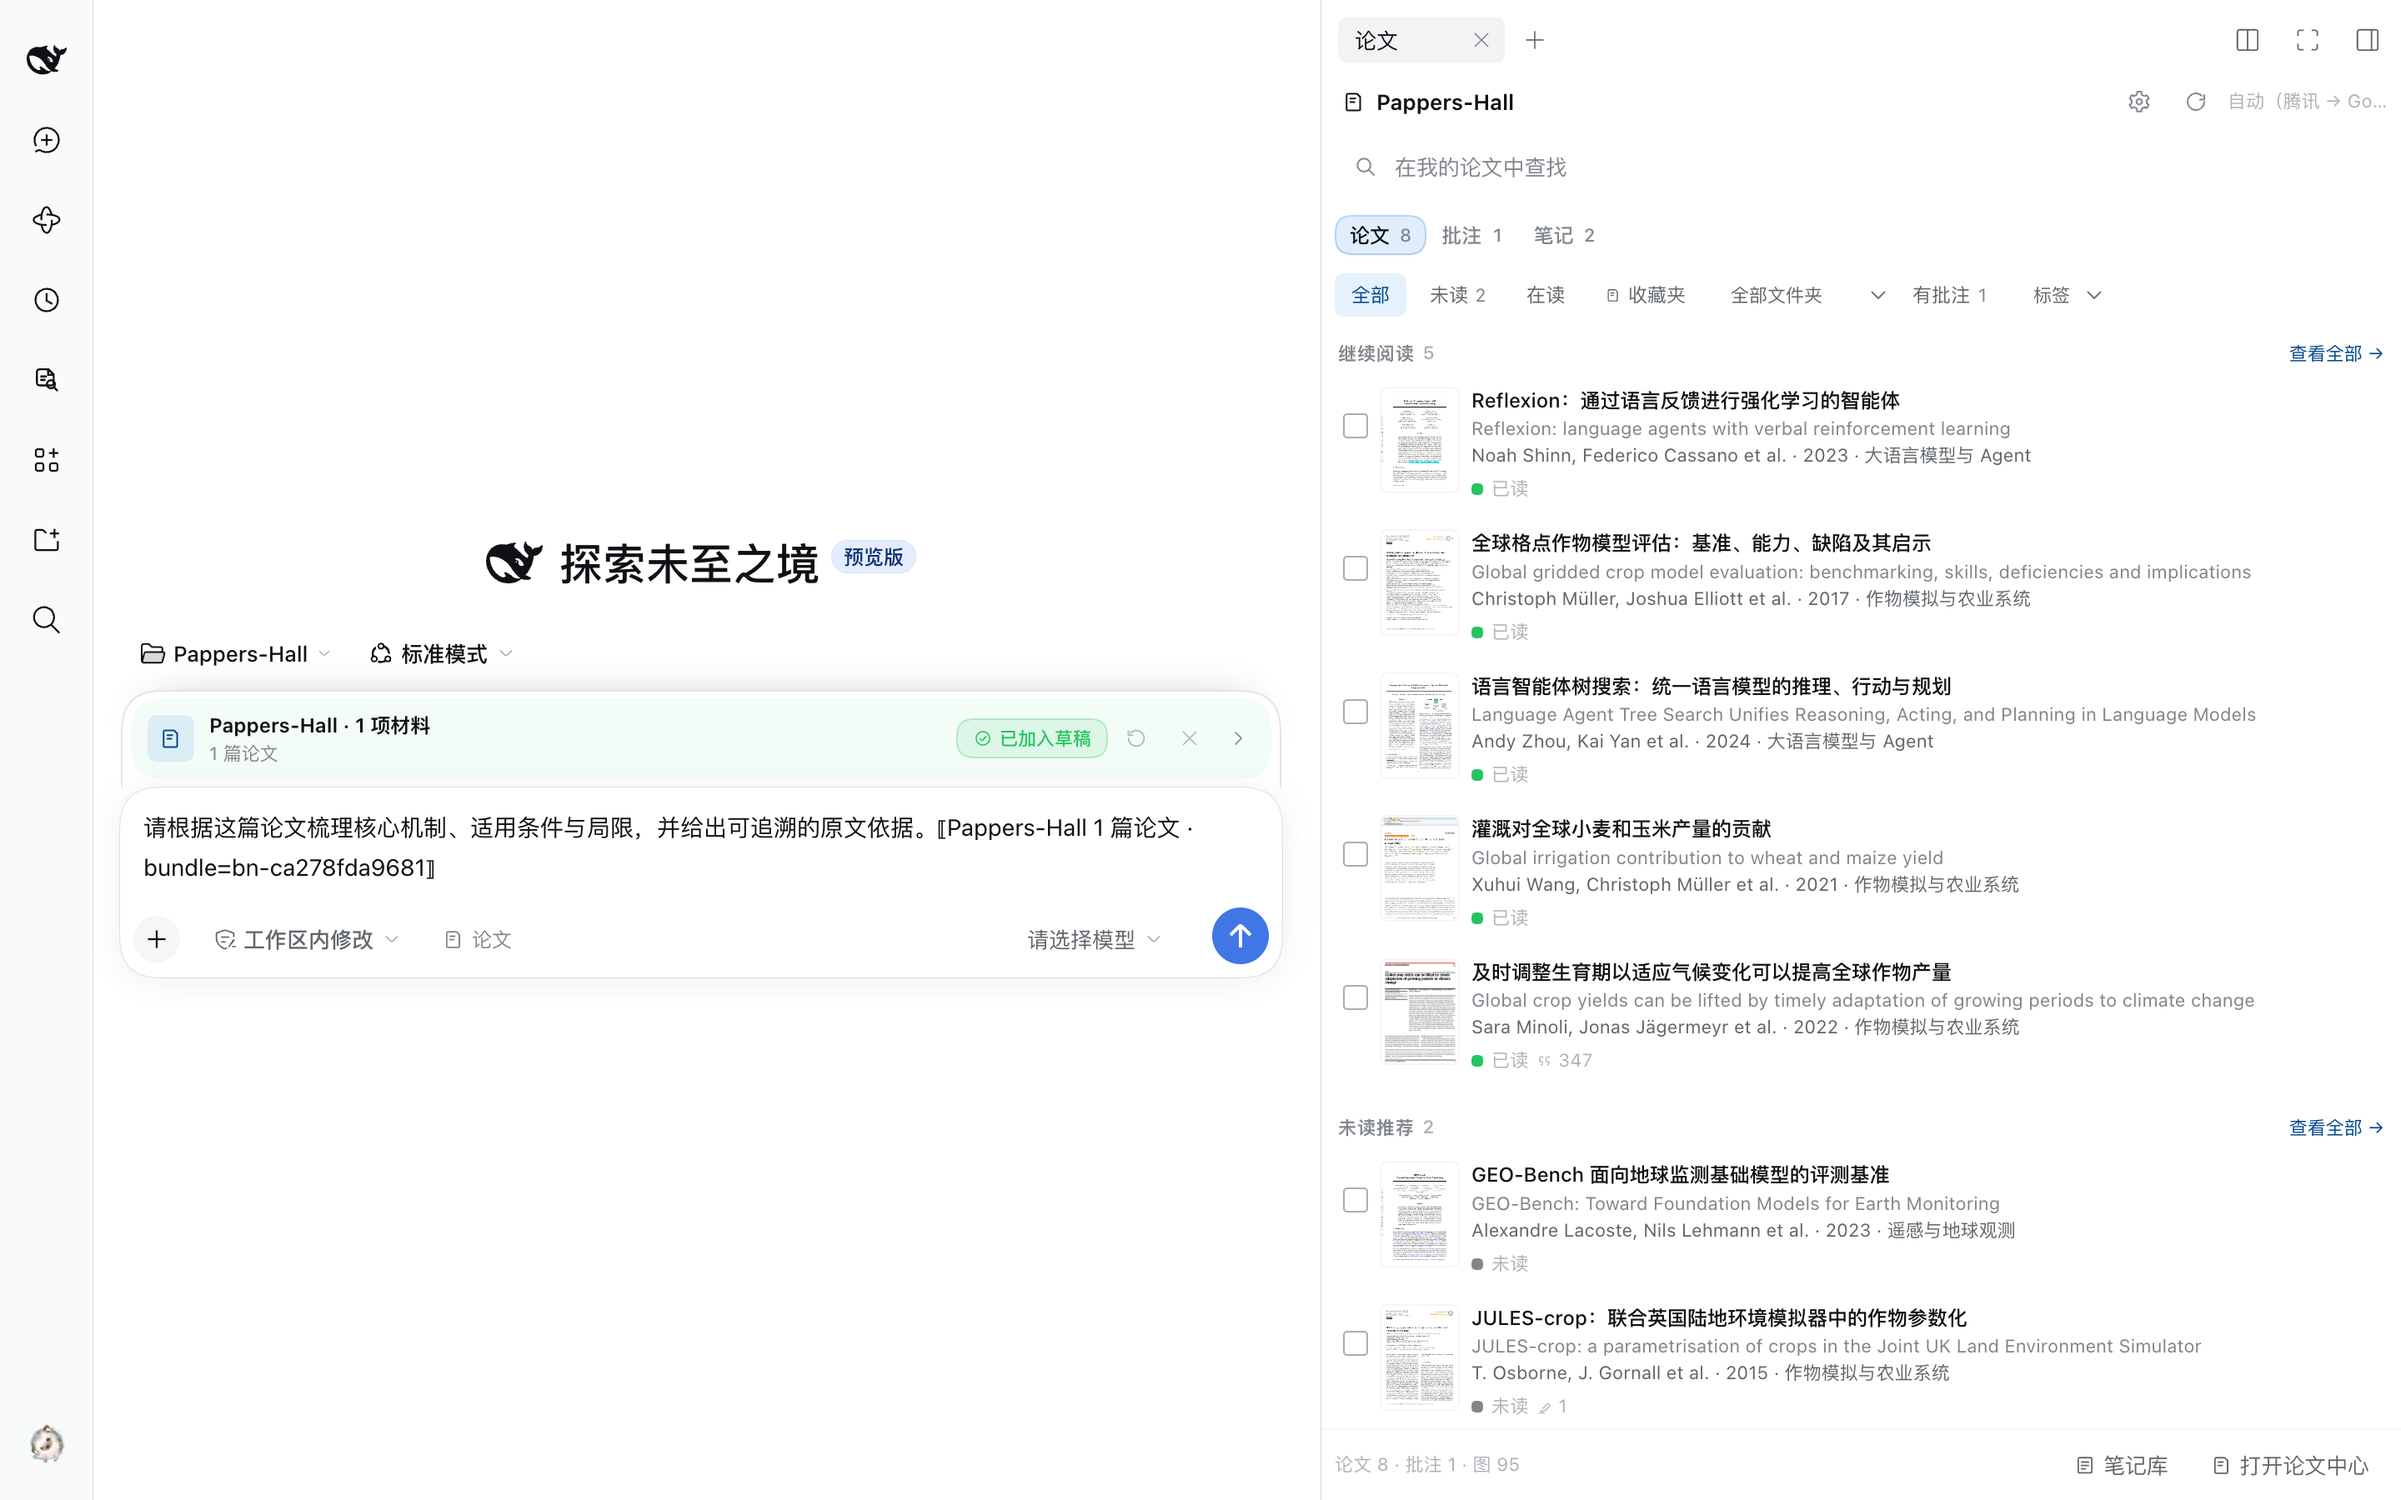
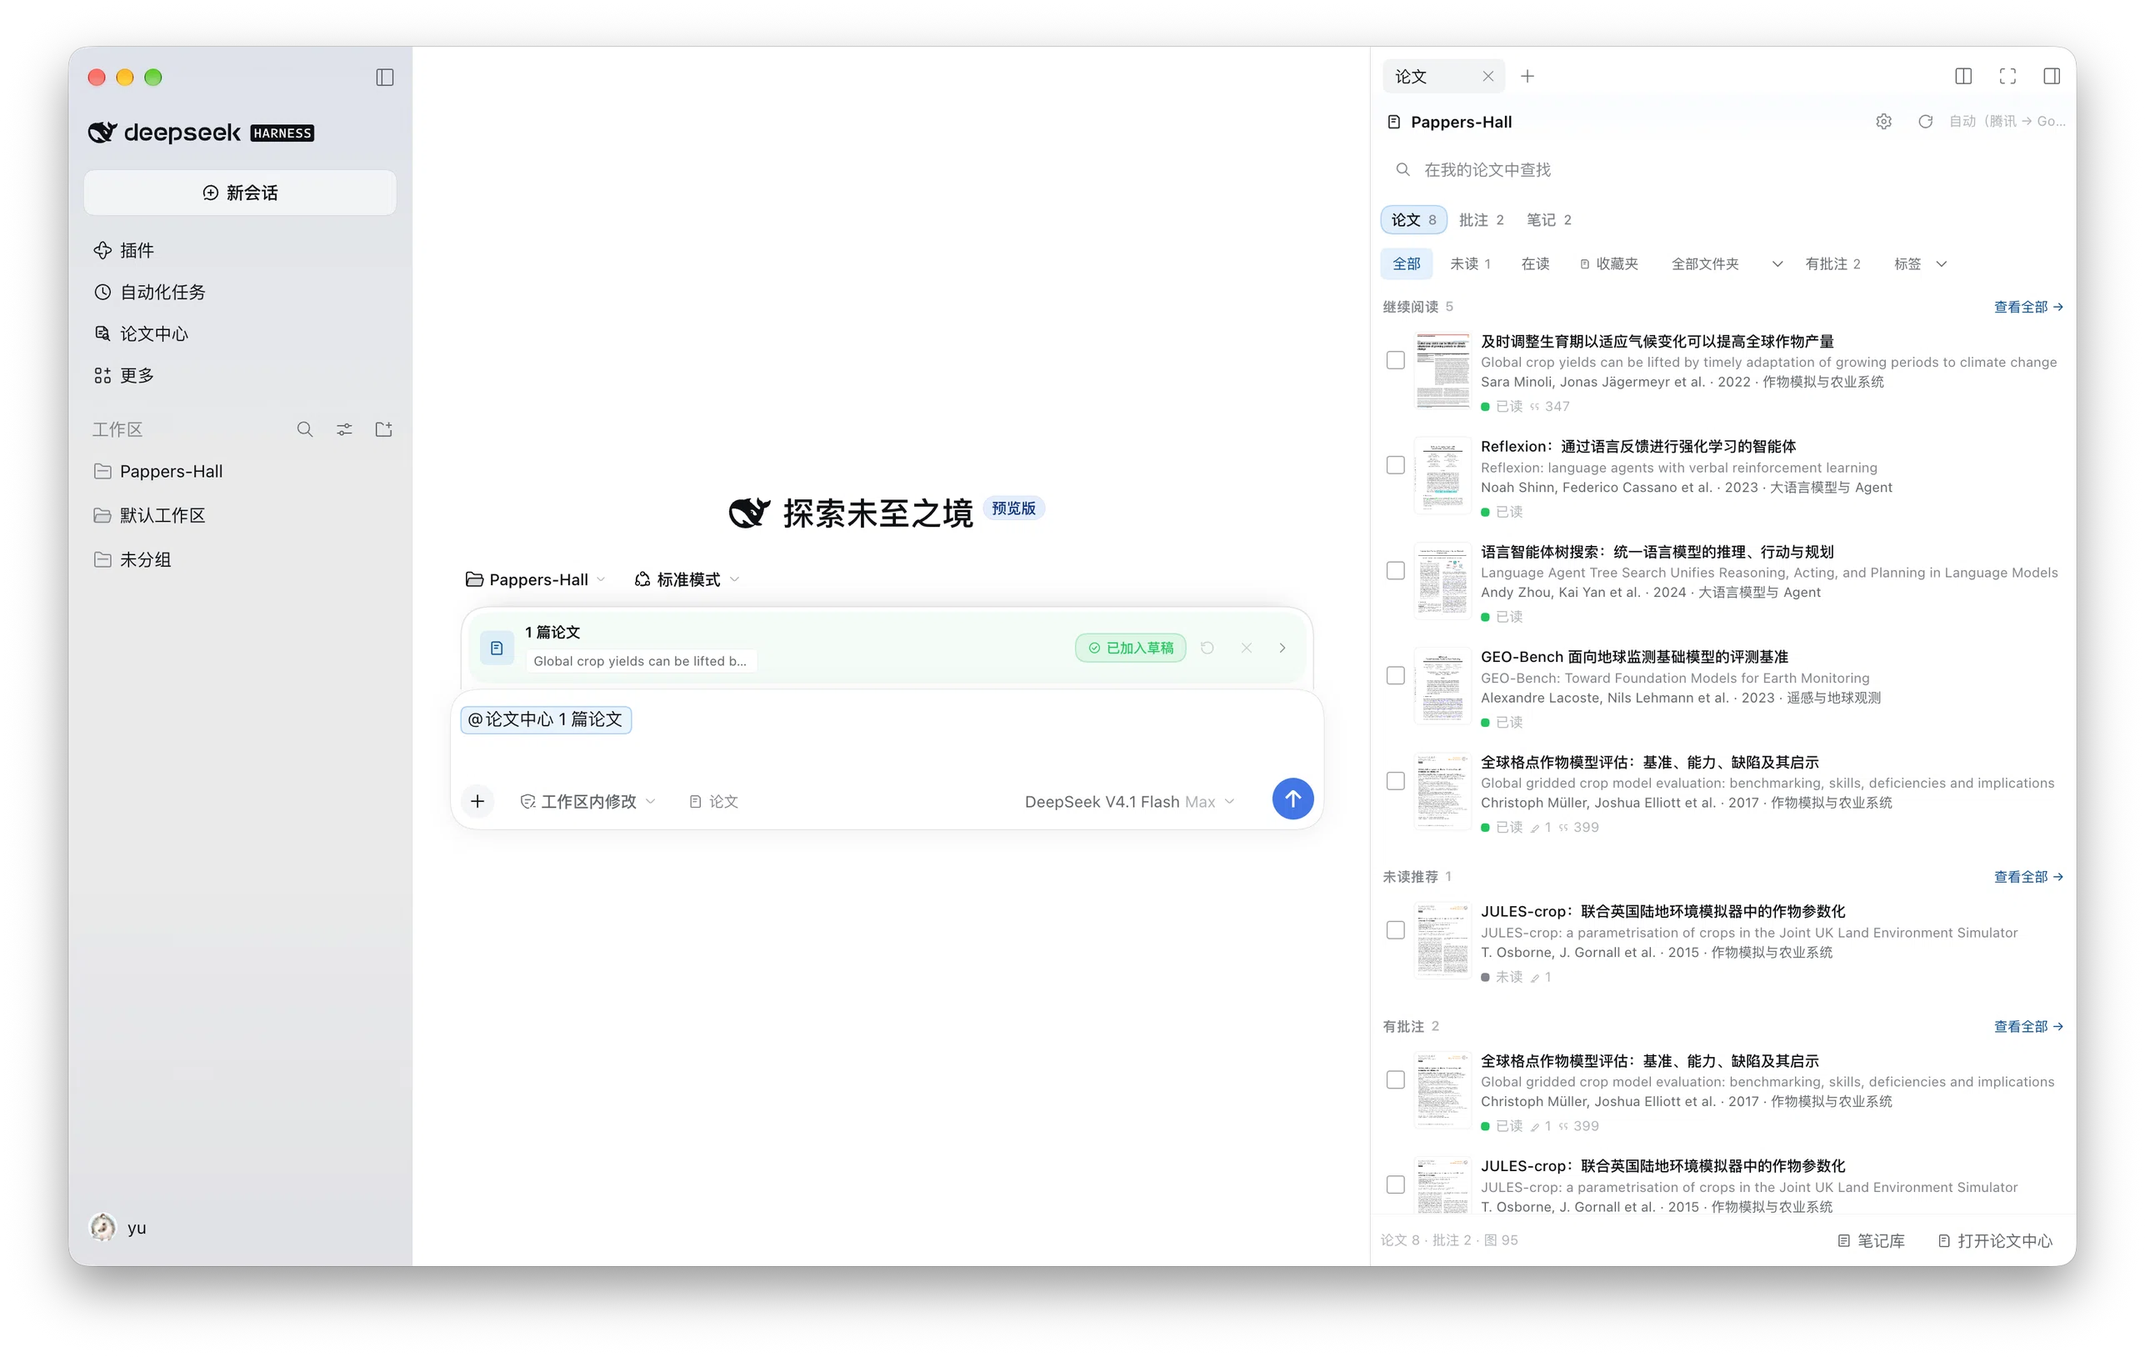
docs: refresh citation screenshot and copy

diff --git a/README.en.md b/README.en.md
@@ -85,13 +85,13 @@ Natural-language requests such as “add a figure from the paper here” also wo
 
 ## 04 / Start the conversation with the material
 
-Select papers, figures, annotations or notes, choose **Cite to conversation**, then **Add to draft**. The source-aware reference lets the Agent read the relevant material as it works.
+Select papers, figures, annotations or notes and choose **Cite to conversation**: the material lands in the draft as one citation token that can be extended or removed with the × next to it. The source-aware reference lets the Agent read the relevant material as it works.
 
 > Explain this paper's mechanism, applicable conditions and limitations, with references to the original evidence.
 
-[![Paper reference added to a research question draft, captured in Chrome light mode](docs/assets/screenshots/conversation-light.png)](docs/assets/screenshots/conversation-light.png)
+[![Paper reference shown as a blue citation token in the draft, with an attached card above it](docs/assets/screenshots/conversation-light.png)](docs/assets/screenshots/conversation-light.png)
 
-<p align="center"><sub>All product screenshots are actual Chrome captures of the Chinese UI in light mode, at a 1440 × 900 desktop viewport and 2× resolution. Numbers inside the sample note describe its paper, not plugin performance. The conversation screenshot shows an unsent draft.</sub></p>
+<p align="center"><sub>All product screenshots are actual captures of the Chinese UI in light mode at a desktop viewport and 2× resolution. Numbers inside the sample note describe its paper, not plugin performance. The conversation screenshot shows an unsent draft with the attached reference.</sub></p>
 
 <br>
 

diff --git a/README.md b/README.md
@@ -104,17 +104,17 @@
 
 ## 04 / 让 AI 从你正在研究的材料出发
 
-从论文中心或对话侧栏选取材料，点击「引用到对话」，再「加入草稿」。材料引用会把来源上下文交给 Agent，方便它继续读取对应论文、段落、图表、批注与笔记。
+从论文中心或对话侧栏选取材料，点击「引用到对话」，材料会作为一个引用标签直接进入草稿，可以继续叠加，也可以点标签旁的 × 取消。材料引用会把来源上下文交给 Agent，方便它继续读取对应论文、段落、图表、批注与笔记。
 
 你可以这样开启一轮研究：
 
 > 请根据这篇论文梳理核心机制、适用条件与局限，并给出可追溯的原文依据。
 
 <p align="center">
-  <a href="docs/assets/screenshots/conversation-light.png"><img src="docs/assets/screenshots/conversation-light.png" alt="Chrome 浅色实景：论文材料已加入科研提问草稿，尚未发送" width="100%"></a>
+  <a href="docs/assets/screenshots/conversation-light.png"><img src="docs/assets/screenshots/conversation-light.png" alt="浅色实景：论文材料引用在草稿里显示为蓝色引用标签，上方卡片显示已加入草稿" width="100%"></a>
 </p>
 
-<p align="center"><sub>以上均为 Chrome 浅色模式实拍：1440 × 900 桌面视口，2× 清晰度。示例笔记中的数字属于论文阅读内容，不代表插件性能；最后一张展示发送前的草稿。</sub></p>
+<p align="center"><sub>以上均为浅色模式实拍：桌面视口，2× 清晰度。示例笔记中的数字属于论文阅读内容，不代表插件性能；最后一张展示发送前的引用草稿。</sub></p>
 
 <br>
 

diff --git a/docs/press-kit/README.md b/docs/press-kit/README.md
@@ -41,7 +41,7 @@ Pappers-Hall 是 DeepSeek Harness 里的 AI 科研工作台。本套物料以戴
 | [论文资料库](../assets/screenshots/library-light.png) | 文件夹、阅读状态、文献列表与论文详情 |
 | [原文与图表](../assets/screenshots/reader-figures-light.png) | 原始 PDF、页缩略图、图表目录与标注工具 |
 | [并排笔记工作台](../assets/screenshots/notes-workbench-light.png) | 结构化研究笔记与关联论文并排阅读 |
-| [材料引用到对话](../assets/screenshots/conversation-light.png) | 论文材料加入提问草稿，尚未发送 |
+| [材料引用到对话](../assets/screenshots/conversation-light.png) | 论文材料在草稿里显示为蓝色引用标签，上方卡片显示已加入草稿 |
 
 示例笔记中的实验数字来自论文阅读内容，不是插件性能指标。截图来自当前开发实例；某个预发布包具体包含的功能以其 Release 说明为准。
 

diff --git a/docs/press-kit/SOURCES.md b/docs/press-kit/SOURCES.md
@@ -29,7 +29,7 @@
 - 截图来自用户提供的本地开发实例。公开材料不记录访问令牌、会话地址或本地个人路径。
 - 四张截图均为实际界面，不使用图片生成工具伪造产品功能。原始 PNG 未修改界面像素。
 - `workbench-card.png` 由 Chrome 导出 `feature-card.html`：真实笔记截图等比放入版式，配合已生成的鲸鱼与标题；它是宣传排版，原始截图另行保留。
-- `conversation-light.png` 展示加入材料后的**未发送草稿**；未为拍摄生成或伪造模型回答。拍摄后已清空该草稿。
+- `conversation-light.png` 展示加入材料后的**未发送草稿**：材料引用在输入框中显示为蓝色引用标签，上方卡片标注「已加入草稿」；未为拍摄生成或伪造模型回答。拍摄后已清空该草稿。
 
 ## 展示文献
 
